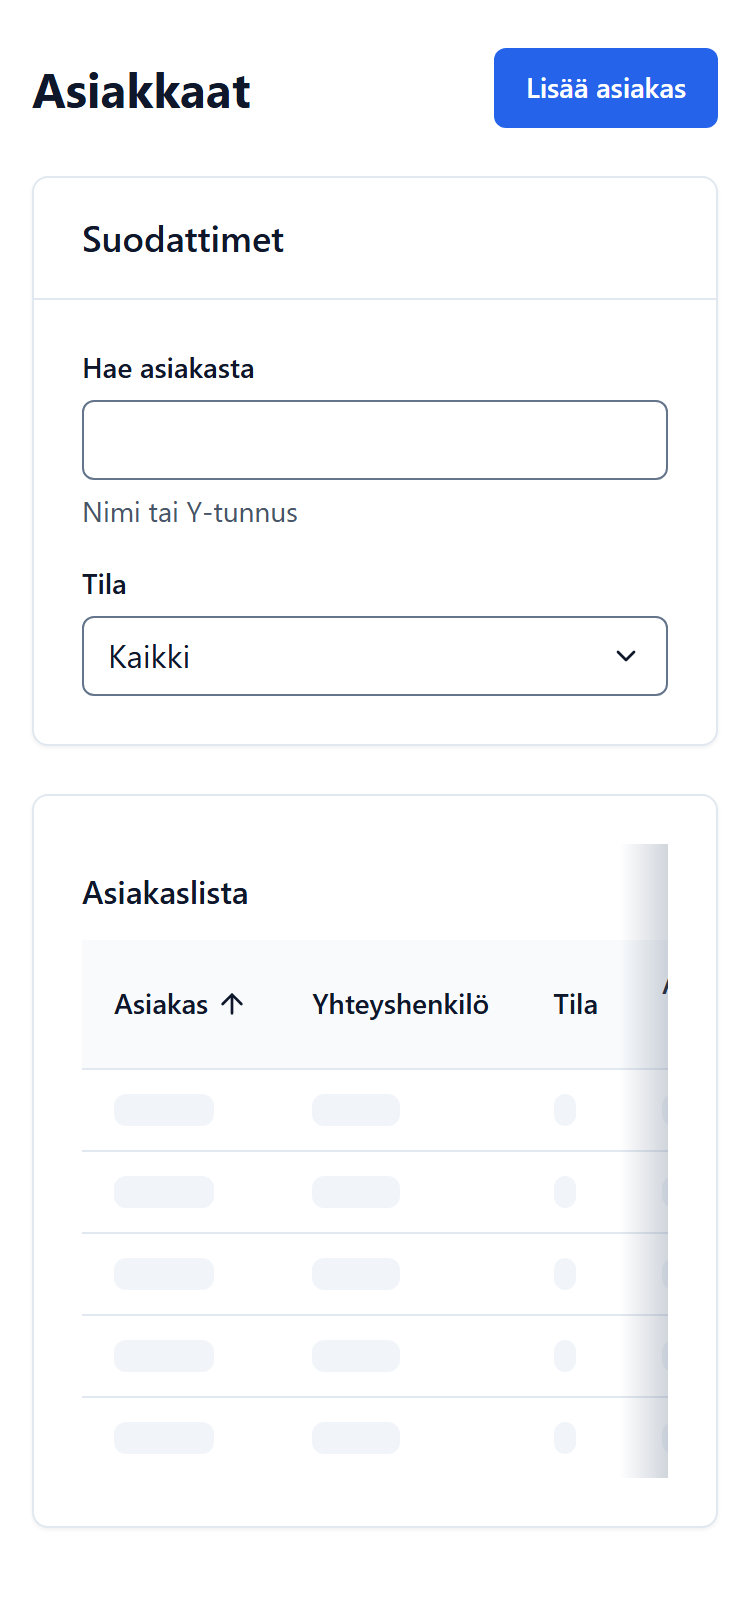
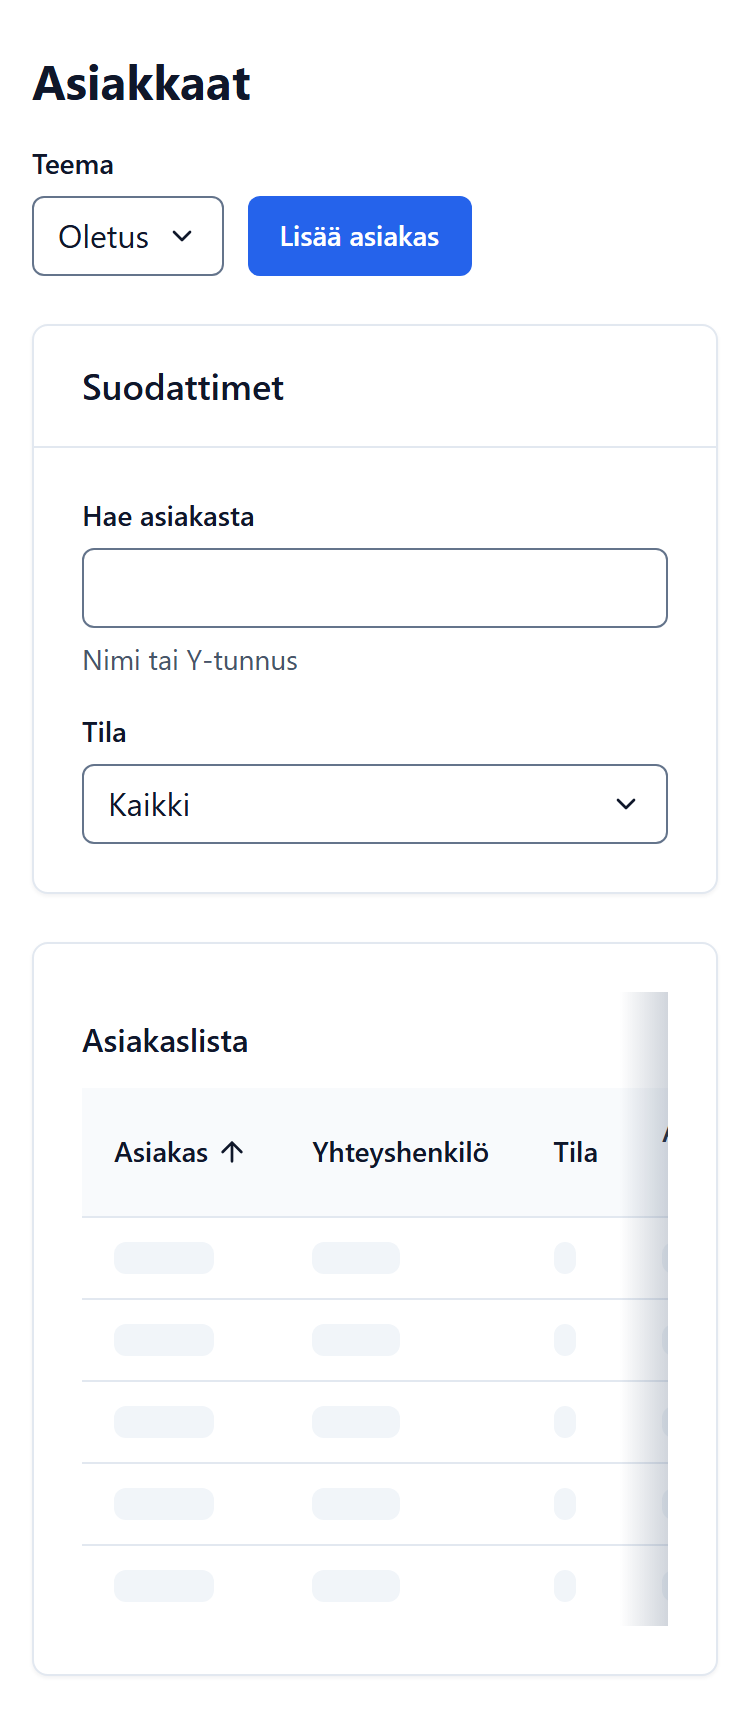
test(e2e): run axe in all themes at both widths; capture each theme in screenshots
axe covers every state in default, forest and dark (themes come from tokens.json) and
asserts the theme is really applied. New theme.spec covers the selector, persistence and
no flash. Verified that a broken dark token fails only the dark runs. Stop tracking
Playwright output (test-results/).

diff --git a/e2e/a11y.spec.ts b/e2e/a11y.spec.ts
@@ -1,9 +1,12 @@
 import AxeBuilder from "@axe-core/playwright";
 import { expect, test, type Page } from "@playwright/test";
-import { addCustomerButton, CUSTOMER, nameButton, openCustomers } from "./helpers";
+import { THEMES } from "../design-system/tokens/themes.generated";
+import { addCustomerButton, CUSTOMER, nameButton, openCustomers, useTheme } from "./helpers";
 
 // WCAG 2.2 AA plus best practices, on the live page at both widths.
-async function expectNoViolations(page: Page) {
+async function expectNoViolations(page: Page, theme: string) {
+  // Guard against testing the wrong theme: the saved theme must really be applied.
+  if (theme !== "default") await expect(page.locator("html")).toHaveAttribute("data-theme", theme);
   const results = await new AxeBuilder({ page })
     .withTags(["wcag2a", "wcag2aa", "wcag21a", "wcag21aa", "wcag22aa", "best-practice"])
     .analyze();
@@ -22,59 +25,66 @@ test("canary: axe reports a real violation", async ({ page }) => {
   expect(results.violations.map((violation) => violation.id)).toContain("image-alt");
 });
 
-test.describe("axe on /customers", () => {
-  test("default state", async ({ page }) => {
-    await openCustomers(page);
-    await expectNoViolations(page);
-  });
+// Every state in every theme (themes come from tokens.json), at both viewport widths.
+for (const { id: theme } of THEMES) {
+  test.describe(`axe on /customers, theme ${theme}`, () => {
+    test.beforeEach(async ({ page }) => {
+      await useTheme(page, theme);
+    });
 
-  test("loading state", async ({ page }) => {
-    await page.goto("/customers");
-    await expect(page.getByRole("status")).toBeAttached();
-    await expectNoViolations(page);
-  });
+    test("default state", async ({ page }) => {
+      await openCustomers(page);
+      await expectNoViolations(page, theme);
+    });
 
-  test("details dialog, both tabs", async ({ page }) => {
-    await openCustomers(page);
-    await nameButton(page, CUSTOMER).click();
-    await expect(page.getByRole("dialog")).toBeVisible();
-    await expectNoViolations(page);
-    await page.getByRole("tab", { name: "Laskut" }).click();
-    await expect(page.getByRole("tabpanel")).toContainText("Asiakkaan laskut");
-    await expectNoViolations(page);
-  });
+    test("loading state", async ({ page }) => {
+      await page.goto("/customers");
+      await expect(page.getByRole("status")).toBeAttached();
+      await expectNoViolations(page, theme);
+    });
 
-  test("new customer dialog, empty and with validation errors", async ({ page }) => {
-    await openCustomers(page);
-    await addCustomerButton(page).click();
-    await expect(page.getByRole("dialog")).toBeVisible();
-    await expectNoViolations(page);
-    await page.getByRole("button", { name: "Tallenna" }).click();
-    await expect(page.getByText("Tämä kenttä on pakollinen.").first()).toBeVisible();
-    await expectNoViolations(page);
-  });
+    test("details dialog, both tabs", async ({ page }) => {
+      await openCustomers(page);
+      await nameButton(page, CUSTOMER).click();
+      await expect(page.getByRole("dialog")).toBeVisible();
+      await expectNoViolations(page, theme);
+      await page.getByRole("tab", { name: "Laskut" }).click();
+      await expect(page.getByRole("tabpanel")).toContainText("Asiakkaan laskut");
+      await expectNoViolations(page, theme);
+    });
 
-  test("empty state", async ({ page }) => {
-    await openCustomers(page);
-    await page.getByLabel("Hae asiakasta").fill("zzz");
-    await expect(page.getByText("Ei hakua vastaavia asiakkaita.")).toBeVisible();
-    await expectNoViolations(page);
-  });
+    test("new customer dialog, empty and with validation errors", async ({ page }) => {
+      await openCustomers(page);
+      await addCustomerButton(page).click();
+      await expect(page.getByRole("dialog")).toBeVisible();
+      await expectNoViolations(page, theme);
+      await page.getByRole("button", { name: "Tallenna" }).click();
+      await expect(page.getByText("Tämä kenttä on pakollinen.").first()).toBeVisible();
+      await expectNoViolations(page, theme);
+    });
 
-  test("error state", async ({ page }) => {
-    await openCustomers(page, "?state=error");
-    await expectNoViolations(page);
-  });
+    test("empty state", async ({ page }) => {
+      await openCustomers(page);
+      await page.getByLabel("Hae asiakasta").fill("zzz");
+      await expect(page.getByText("Ei hakua vastaavia asiakkaita.")).toBeVisible();
+      await expectNoViolations(page, theme);
+    });
 
-  test("success alert after adding a customer", async ({ page }) => {
-    await openCustomers(page);
-    await addCustomerButton(page).click();
-    await page.getByLabel("Yrityksen nimi").fill("Testi Oy");
-    await page.getByLabel("Y-tunnus").fill("7654321-0");
-    await page.getByLabel("Yhteyshenkilö").fill("Testi Henkilö");
-    await page.getByLabel("Sähköposti").fill("testi@testi.example");
-    await page.getByRole("button", { name: "Tallenna" }).click();
-    await expect(page.getByText("Asiakas lisätty.")).toBeVisible();
-    await expectNoViolations(page);
+    test("error state", async ({ page }) => {
+      await openCustomers(page, "?state=error");
+      await expectNoViolations(page, theme);
+    });
+
+    test("success alert after adding a customer", async ({ page }) => {
+      await openCustomers(page);
+      await addCustomerButton(page).click();
+      await page.getByLabel("Yrityksen nimi").fill("Testi Oy");
+      await page.getByLabel("Y-tunnus").fill("7654321-0");
+      await page.getByLabel("Yhteyshenkilö").fill("Testi Henkilö");
+      await page.getByLabel("Sähköposti").fill("testi@testi.example");
+      await page.getByRole("button", { name: "Tallenna" }).click();
+      await expect(page.getByText("Asiakas lisätty.")).toBeVisible();
+      await expectNoViolations(page, theme);
+    });
   });
-});
+}

diff --git a/e2e/theme.spec.ts b/e2e/theme.spec.ts
@@ -1,0 +1,57 @@
+import { expect, test } from "@playwright/test";
+import { openCustomers } from "./helpers";
+
+const html = "html";
+
+test.describe("theme selector", () => {
+  test("starts in the default theme", async ({ page }) => {
+    await openCustomers(page);
+    await expect(page.getByRole("combobox", { name: "Teema" })).toHaveText("Oletus");
+    await expect(page.locator(html)).not.toHaveAttribute("data-theme", /forest|dark/);
+  });
+
+  test("changing the theme applies it and saves it", async ({ page }) => {
+    await openCustomers(page);
+    await page.getByRole("combobox", { name: "Teema" }).click();
+    await page.getByRole("option", { name: "Tumma" }).click();
+    await expect(page.locator(html)).toHaveAttribute("data-theme", "dark");
+    await expect(page.getByRole("combobox", { name: "Teema" })).toHaveText("Tumma");
+    expect(await page.evaluate(() => localStorage.getItem("ds-theme"))).toBe("dark");
+    // Page background follows the semantic surface token of the dark theme (neutral 900).
+    await expect(page.locator("body")).toHaveCSS("background-color", "rgb(15, 23, 42)");
+  });
+
+  test("the theme can be changed with the keyboard", async ({ page }) => {
+    await openCustomers(page);
+    await page.getByRole("combobox", { name: "Teema" }).focus();
+    await page.keyboard.press("Enter");
+    await page.getByRole("option", { name: "Metsä" }).focus();
+    await page.keyboard.press("Enter");
+    await expect(page.locator(html)).toHaveAttribute("data-theme", "forest");
+    await expect(page.getByRole("combobox", { name: "Teema" })).toBeFocused();
+  });
+
+  test("the saved theme is applied before the first paint (no flash)", async ({ page }) => {
+    await page.addInitScript(() => localStorage.setItem("ds-theme", "dark"));
+    // Record what the document looked like when parsing finished, before React could hydrate it.
+    await page.addInitScript(() => {
+      document.addEventListener("DOMContentLoaded", () => {
+        (window as unknown as { __early: string[] }).__early = [
+          document.documentElement.getAttribute("data-theme") ?? "none",
+          getComputedStyle(document.body).backgroundColor,
+        ];
+      });
+    });
+    await openCustomers(page);
+    const early = await page.evaluate(() => (window as unknown as { __early: string[] }).__early);
+    expect(early).toEqual(["dark", "rgb(15, 23, 42)"]);
+    await expect(page.getByRole("combobox", { name: "Teema" })).toHaveText("Tumma");
+  });
+
+  test("an unknown saved value is ignored", async ({ page }) => {
+    await page.addInitScript(() => localStorage.setItem("ds-theme", "neon"));
+    await openCustomers(page);
+    await expect(page.locator(html)).not.toHaveAttribute("data-theme", /.+/);
+    await expect(page.getByRole("combobox", { name: "Teema" })).toHaveText("Oletus");
+  });
+});

diff --git a/e2e/helpers.ts b/e2e/helpers.ts
@@ -12,3 +12,8 @@ export async function openCustomers(page: Page, query = "") {
 export const nameButton = (page: Page, name = CUSTOMER) => page.getByRole("button", { name: `Avaa tiedot: ${name}` });
 
 export const addCustomerButton = (page: Page) => page.getByRole("button", { name: "Lisää asiakas" });
+
+/** Saves the theme the way the selector does, before the page loads (also exercises the no-flash script). */
+export async function useTheme(page: Page, theme: string) {
+  await page.addInitScript((id) => localStorage.setItem("ds-theme", id), theme);
+}
